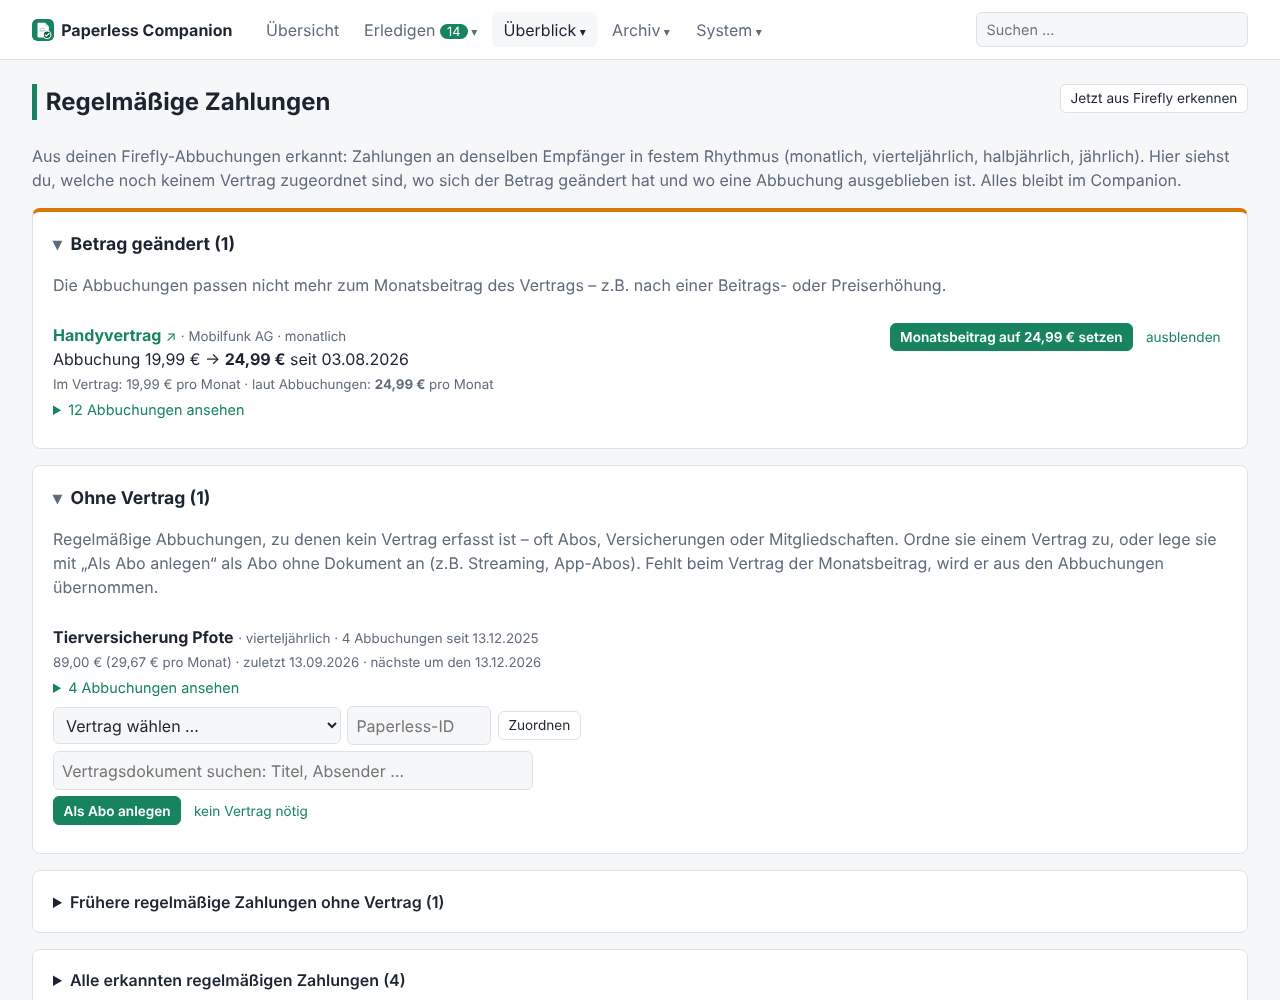
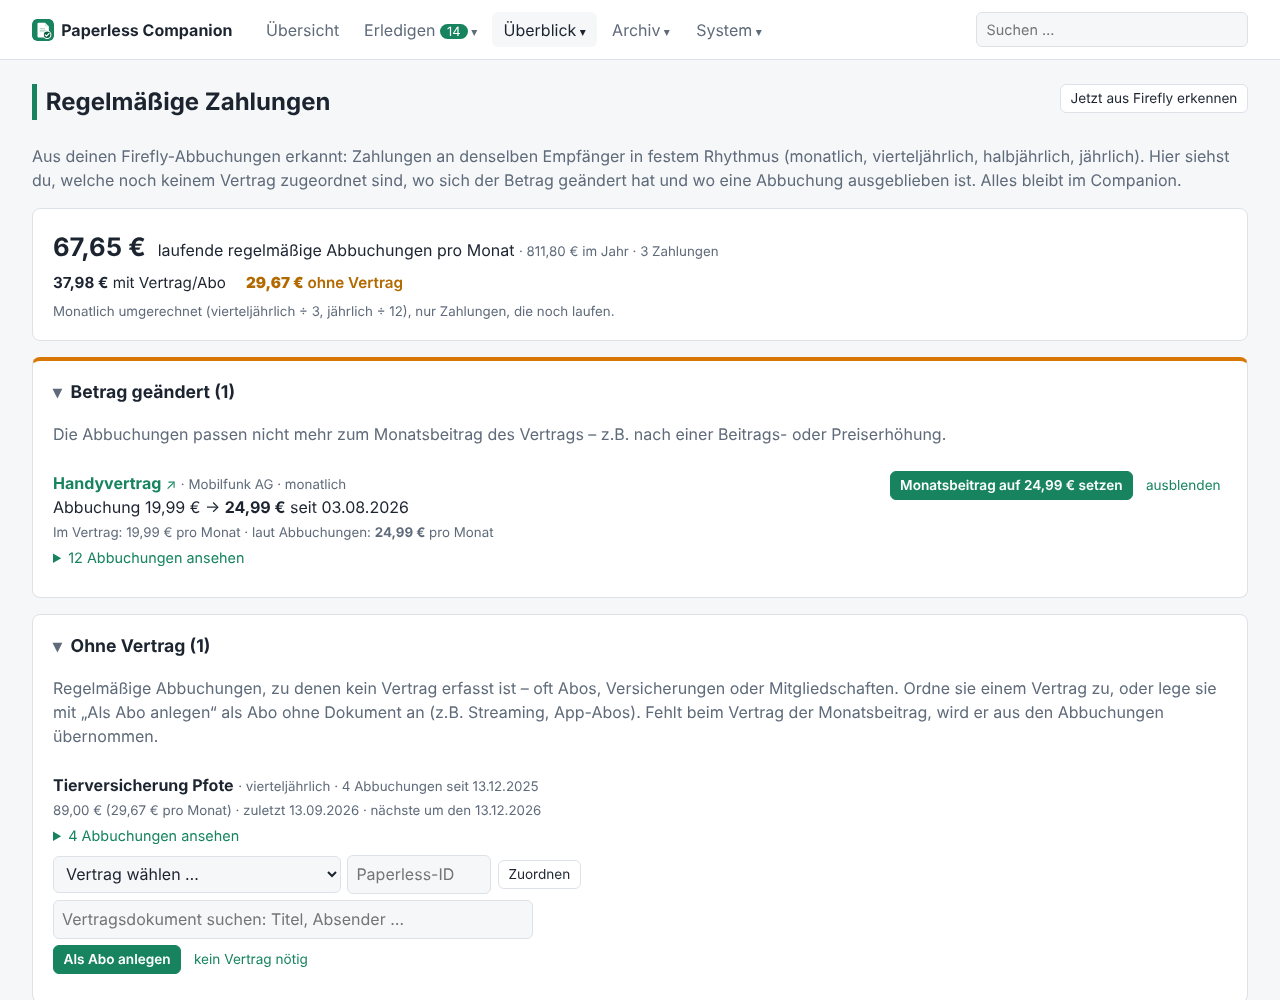
Regelmäßige Zahlungen: schneller beim Herausnehmen, Summe der laufenden Abbuchungen
- Herausnehmen ändert die gespeicherten Serien einmal für alle angehakten Buchungen statt je Buchung neu zu bewerten
- Belegseiten-Abgleich liest vorbelegte Zahlungen nur noch aus Inbox-Dokumenten (nicht aus dem ganzen Archiv)
- Vertragszuordnung bereitet die Verträge einmal je Auswertung vor
- Summe: laufende regelmäßige Abbuchungen pro Monat und Jahr, aufgeteilt in mit Vertrag/Abo, über Rechnungen/Belege
  und ohne Vertrag; auch auf der Vertragsseite neben den Fixkosten

Claude-Session: https://claude.ai/code/session_01GZFJmjHzpJwZEudqzSRrzQ

Changed region(s): [[0.0312, 0.186, 0.9688, 0.992]]

diff --git a/app/templates/recurring.html b/app/templates/recurring.html
@@ -11,6 +11,19 @@
   halbjährlich, jährlich). Hier siehst du, welche noch keinem Vertrag zugeordnet sind, wo sich der Betrag geändert hat und wo eine
   Abbuchung ausgeblieben ist. Alles bleibt im Companion.</p>
 
+{% if data.all %}{% set su = data.sums %}
+<section class="card rec-sums">
+  <div class="rec-sum-main"><span class="num">{{ su.total|eur }}</span><span>laufende regelmäßige Abbuchungen pro Monat
+    <small class="muted">· {{ (su.total * 12)|eur }} im Jahr · {{ su.count }} Zahlungen</small></span></div>
+  <div class="rec-sum-parts">
+    <span><strong>{{ su.contract|eur }}</strong> mit Vertrag/Abo</span>
+    {% if su.other %}<span><strong>{{ su.other|eur }}</strong> über Rechnungen/Belege</span>{% endif %}
+    <span class="{{ 'soon' if su.open }}"><strong>{{ su.open|eur }}</strong> ohne Vertrag</span>
+  </div>
+  <small class="muted">Monatlich umgerechnet (vierteljährlich ÷ 3, jährlich ÷ 12), nur Zahlungen, die noch laufen.</small>
+</section>
+{% endif %}
+
 {% macro dismiss(token, label='ausblenden') %}<form method="post" action="/recurring/action" class="inline">
   <input type="hidden" name="action" value="dismiss"><input type="hidden" name="token" value="{{ token }}">
   <button class="small link">{{ label }}</button></form>{% endmacro %}

diff --git a/app/templates/contracts.html b/app/templates/contracts.html
@@ -2,7 +2,9 @@
 {% from "macros.html" import doclink %}
 {% block content %}
 <h1>Verträge</h1>
-<p class="muted">Fixkosten laufender Verträge: <strong>{{ fixed_costs|eur }}</strong> pro Monat <small>(gekündigte zählen bis zum Vertragsende)</small></p>
+<p class="muted">Fixkosten laufender Verträge: <strong>{{ fixed_costs|eur }}</strong> pro Monat <small>(gekündigte zählen bis zum Vertragsende)</small>
+  {% if recurring_sums and recurring_sums.total %} · laut Firefly laufen regelmäßig <a href="/recurring"><strong>{{ recurring_sums.total|eur }}</strong> pro Monat</a>
+  {% if recurring_sums.open %}<small>(davon {{ recurring_sums.open|eur }} ohne Vertrag)</small>{% endif %}{% endif %}</p>
 {% if msg %}<div class="notice ok">{{ msg }}</div>{% endif %}
 {% set rc = recurring_counts %}
 {% if rc.unknown or rc.changed or rc.missing %}

diff --git a/app/static/style.css b/app/static/style.css
@@ -891,3 +891,7 @@ button:disabled, button:disabled:hover { opacity: .5; cursor: not-allowed; }
 .rec-excluded td { opacity: .6; text-decoration: line-through; }
 .rec-excluded td:last-child { text-decoration: none; opacity: 1; }
 .rec-book-tools { display: flex; flex-wrap: wrap; gap: .3rem .6rem; align-items: center; margin: .3rem 0; }
+.rec-sums { display: flex; flex-direction: column; gap: .4rem; }
+.rec-sum-main { display: flex; flex-wrap: wrap; gap: .3rem .75rem; align-items: baseline; }
+.rec-sum-main .num { font-size: 1.6rem; font-weight: 700; }
+.rec-sum-parts { display: flex; flex-wrap: wrap; gap: .3rem 1.25rem; font-size: .95rem; }

diff --git a/app/recurring.py b/app/recurring.py
@@ -170,15 +170,22 @@ def _words(text: str | None) -> set[str]:
     return {w for w in re.findall(r"[a-zäöüß0-9]+", (text or "").lower()) if len(w) >= 3 and w not in GENERIC}
 
 
-def match_contract(session: Session, s: Series, links: dict) -> Contract | None:
+def _contract_index(session: Session) -> list[tuple]:
+    """Verträge mit vorbereiteten Namenswörtern (einmal je Auswertung statt je Serie)."""
+    return [(c, _words(c.provider) | _words(c.document.correspondent if c.document else ""), _words(c.name),
+             party_key(c.payee) if c.payee else None)
+            for c in session.scalars(select(Contract).where(Contract.status.in_(("active", "cancelled"))))]
+
+
+def match_contract(session: Session, s: Series, links: dict, index: list[tuple] | None = None) -> Contract | None:
     if (cid := links.get(s.key)) and (c := session.get(Contract, cid)):
         return c
     payee = _words(s.payee)
+    payee_key = party_key(s.payee)
     best, best_points = None, 0
-    for c in session.scalars(select(Contract).where(Contract.status.in_(("active", "cancelled")))):
-        names = _words(c.provider) | _words(c.document.correspondent if c.document else "")
-        points = len(payee & names) * 2 + len(payee & _words(c.name))
-        if c.payee and party_key(c.payee) == party_key(s.payee):
+    for c, names, name_words, c_payee in (index if index is not None else _contract_index(session)):
+        points = len(payee & names) * 2 + len(payee & name_words)
+        if c_payee and c_payee == payee_key:
             points += 5  # beim Abo hinterlegter Firefly-Empfänger
         if c.monthly_cost and abs(c.monthly_cost - s.monthly) <= max(1.0, c.monthly_cost * 0.2):
             points += 1
@@ -193,8 +200,9 @@ def evaluate(session: Session, series: list[Series]) -> list[Series]:
     fixed = fixed_documents(session)
     paid = {m.tx_id for m in session.scalars(select(PaymentMatch).where(PaymentMatch.state == "accepted"))}
     linked = {r.tx_id for r in session.scalars(select(ReceiptCheck).where(ReceiptCheck.state == "linked"))}
+    index = _contract_index(session)
     for s in series:
-        contract = match_contract(session, s, links)
+        contract = match_contract(session, s, links, index)
         s.contract_id = contract.id if contract else None
     # Mehrere Serien desselben Empfängers am selben Vertrag (z.B. Abo und Einzelkäufe beim Versandhändler):
     # automatisch nur die passendste behalten – von dir zugeordnete bleiben immer
@@ -261,28 +269,36 @@ def _save_series(session: Session, series: list[Series]) -> None:
 def exclude(session: Session, series_key: str, tx_id: str) -> dict | None:
     """Eine Buchung aus der Serie nehmen: Sie gehört dann nicht mehr zum Vertrag/Abo und ist auf der Belegseite
     wieder frei. Gibt die Angaben der Buchung zurück."""
-    series = stored(session)
-    target = next((x for x in series if x.key == series_key and tx_id in x.tx_ids), None)
-    if target is None:
-        return None
-    i = target.tx_ids.index(tx_id)
-    info = {"key": series_key, "payee": target.payee, "date": target.dates[i], "amount": target.amounts[i],
-            "group_id": target.group_ids[i] if i < len(target.group_ids) else None,
-            "description": target.descriptions[i] if i < len(target.descriptions) else ""}
-    for name in ("tx_ids", "dates", "amounts", "group_ids", "descriptions"):
-        values = getattr(target, name)
-        if i < len(values):
-            values.pop(i)
-    _save_series(session, [x for x in series if x.tx_ids])
-    items = excluded(session)
-    items[tx_id] = info
-    _kv_set(session, EXCLUDED_KEY, items)
-    return info
+    done = exclude_many(session, series_key, [tx_id])
+    return excluded(session).get(tx_id) if done else None
 
 
 def exclude_many(session: Session, series_key: str, tx_ids: list[str]) -> int:
-    """Mehrere Buchungen auf einmal aus der Serie nehmen."""
-    return sum(1 for t in tx_ids if exclude(session, series_key, t))
+    """Mehrere Buchungen auf einmal aus der Serie nehmen – einmal lesen, einmal speichern."""
+    data = _kv(session, KEY)
+    if not isinstance(data, list):
+        return 0
+    target = next((d for d in data if d.get("key") == series_key), None)
+    if target is None:
+        return 0
+    items = excluded(session)
+    wanted, count = set(tx_ids), 0
+    for i in reversed(range(len(target.get("tx_ids", [])))):
+        tx_id = target["tx_ids"][i]
+        if tx_id not in wanted:
+            continue
+        pick = lambda name: (target.get(name) or [])[i] if i < len(target.get(name) or []) else None  # noqa: E731
+        items[tx_id] = {"key": series_key, "payee": target["payee"], "date": pick("dates"), "amount": pick("amounts"),
+                        "group_id": pick("group_ids"), "description": pick("descriptions") or ""}
+        for name in ("tx_ids", "dates", "amounts", "group_ids", "descriptions"):
+            values = target.get(name) or []
+            if i < len(values):
+                values.pop(i)
+        count += 1
+    if count:
+        _kv_set(session, KEY, [d for d in data if d.get("tx_ids")])
+        _kv_set(session, EXCLUDED_KEY, items)
+    return count
 
 
 def include(session: Session, tx_id: str) -> dict | None:
@@ -337,6 +353,15 @@ def findings(session: Session, today: date) -> dict:
                 and f"missing:{s.key}:{s.next_date.isoformat()}" not in dismissed:
             result["missing"].append({"series": s, "contract": contract})
     result["unknown"].sort(key=lambda s: -s.monthly)
+    ended = {id(x) for x in result["ended"]}
+    running = [x for x in result["all"] if id(x) not in ended
+               and today <= x.next_date + timedelta(days=x.months * 31 + (10 if x.months == 1 else 25))]
+    sums = {"total": 0.0, "contract": 0.0, "other": 0.0, "open": 0.0, "count": len(running)}
+    for x in running:
+        part = "contract" if x.covered == "Vertrag" else ("other" if x.covered else "open")
+        sums[part] += x.monthly
+        sums["total"] += x.monthly
+    result["sums"] = {k: round(v, 2) if isinstance(v, float) else v for k, v in sums.items()}
     return result
 
 

diff --git a/tests/test_recurring.py b/tests/test_recurring.py
@@ -128,3 +128,16 @@ def test_streams_do_not_drift_and_one_series_per_contract(db):
         series = recurring.stored(s)
         assert len(series) == 2
         assert [x.last_amount for x in series if x.contract_id] == [8.99]  # nur das Abo, nicht die anderen Käufe
+
+
+def test_sum_of_running_payments(db):
+    with db() as s:
+        doc = Document(id=980, title="Fitness", correspondent="Fitnessstudio Muster", kind="contract", tags=[])
+        doc.contract = Contract(name="Fitness", provider="Fitnessstudio Muster", monthly_cost=29.9)
+        s.add(doc)
+    with db() as s:
+        recurring.run(s, [*monthly("Fitnessstudio Muster", 29.9, 12), *monthly("Streamingdienst AG", 12.99, 12),
+                          *monthly("Altes Abo", 5.0, 6, start=date(2023, 1, 5))])  # längst beendet: zählt nicht
+    with db() as s:
+        sums = recurring.findings(s, TODAY)["sums"]
+        assert sums == {"total": 42.89, "contract": 29.9, "other": 0.0, "open": 12.99, "count": 2}

diff --git a/app/receipts.py b/app/receipts.py
@@ -180,7 +180,8 @@ def _linked_transactions(session: Session) -> dict[str, int]:
                              .options(selectinload(PaymentMatch.invoice))):
         if m.invoice is not None:
             linked[m.tx_id] = m.invoice.document_id
-    for doc_id, sugg in session.execute(select(Document.id, Document.suggestions)):
+    # vorbelegte Zahlungen gibt es nur bei Dokumenten in der Inbox
+    for doc_id, sugg in session.execute(select(Document.id, Document.suggestions).where(Document.review_state == "pending")):
         p = (sugg or {}).get("_payment") if isinstance(sugg, dict) else None
         if p and p.get("tx_id"):
             linked.setdefault(p["tx_id"], doc_id)

diff --git a/app/main.py b/app/main.py
@@ -1070,6 +1070,7 @@ def create_app(settings: Settings | None = None, start_worker: bool = True) -> F
         rec = recurring.findings(session, t)
         return render(request, "contracts.html", rows=rows, fixed_costs=events.monthly_fixed_costs(session), msg=msg,
                       recurring_counts={k: len(rec[k]) for k in ("unknown", "changed", "missing")},
+                      recurring_sums=rec.get("sums"),
                       cancels=cancellations.pending(session),
                       all_contracts=sorted(session.scalars(select(Contract)), key=lambda c: (c.name or "").lower()))
 
